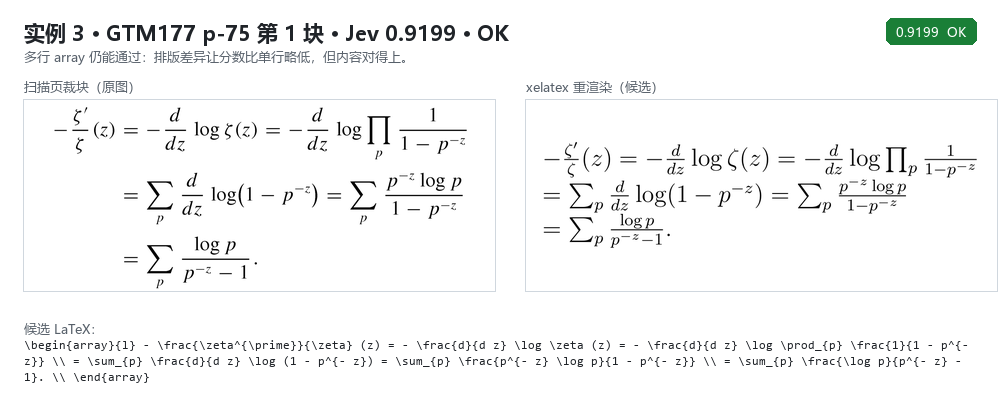
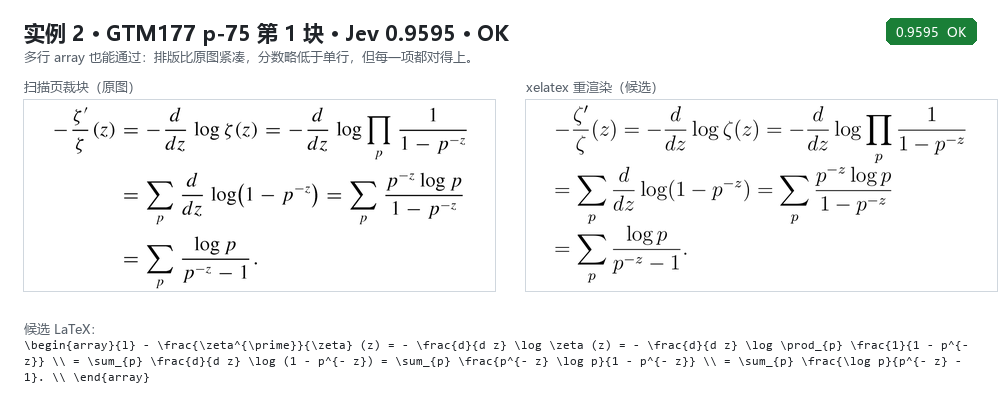
fix: force displaystyle in array cells so limits match the print
OCR 把多行公式写成 array 环境，array 单元格默认 textstyle：\\sum 的上下限会按上下标排到右下角、分式变小，与扫描页的 display 排版不一致，Jev 因此扣分。

模板加 \\everymath{\\displaystyle}：22 块真实样本均值 0.9470 -> 0.9676，5 块变好、3 块微降(<=0.0014)，一块误报 0.4275 -> 0.8304 消失。

顺带把实例换成 0.9900 OK / 0.9595 OK / 模板对照三张，并补一条单测。

diff --git a/pmocr/latex.py b/pmocr/latex.py
@@ -17,14 +17,18 @@ from typing import Callable
 from .config import Config
 from .errors import RenderError
 
+# \everymath{\displaystyle} 是必须的，不是审美选择：
+# OCR 把多行公式写成 \begin{array}{l}…\end{array}，而 array 单元格默认按 textstyle 排版，
+# 求和号上下限会跑到右下角、分式变小，和扫描页的 display 排版不一致，Jev 会因此扣分。
+# 22 块实测：均值 0.9470 → 0.9676，其中一块误报 0.4275 → 0.8304。
 TEMPLATE = (
     "\\documentclass[12pt,border=3pt]{standalone}\n"
     "\\usepackage{amsmath}\n"
+    "\\everymath{\\displaystyle}\n"
     "\\begin{document}\n"
     "$\\displaystyle %s$\n"
     "\\end{document}\n"
 )
-
 _LEADING_DELIMS = (re.compile(r"^\s*\\\["), re.compile(r"^\s*\$\$"))
 _TRAILING_DELIMS = (re.compile(r"\\\]\s*$"), re.compile(r"\$\$\s*$"))
 

diff --git a/tests/test_latex.py b/tests/test_latex.py
@@ -41,6 +41,11 @@ class StripTests(unittest.TestCase):
         self.assertIn("amsmath", doc)
         self.assertIn("$\\displaystyle x^2$", doc)
 
+    def test_document_forces_displaystyle_inside_cells(self) -> None:
+        # array 单元格默认 textstyle，会让 \sum 下限跑到右下角，与印刷版不符
+        doc = build_document("\\begin{array}{l}\\sum_p x\\end{array}")
+        self.assertIn("\\everymath{\\displaystyle}", doc)
+
 
 class RenderTests(unittest.TestCase):
     def setUp(self) -> None:

diff --git a/README.md b/README.md
@@ -69,18 +69,20 @@ python -m pmocr.experiment --csv .\work\qc\formula_qc.csv --md 报告.md
 
 ## 实例（真实产物，非示意）
 
-三张图都是 2026-11-20 在 GTM177 上跑出来的：左边是扫描页裁块，右边是 xelatex 重渲染，分数来自 Jev。
+三张图都是 2026-11-20 在 GTM177 上跑出来的：左边扫描页裁块、右边 xelatex 重渲染，分数来自 Jev。
 
 ![实例 1：高分正确](docs/img/example-ok.png)
 
-![实例 2：低分但人工核对正确](docs/img/example-check.png)
+![实例 2：多行 array](docs/img/example-array.png)
 
-![实例 3：多行 array 仍通过](docs/img/example-array.png)
+![求和号下限为什么跑到右下角](docs/img/example-style.png)
 
 - **实例 1（0.9900 OK）**：两边几乎逐字一致，这块不用人看。
-- **实例 2（0.4275 CHECK）**：**最值得看的一张**。低分不等于错——裁块里带了公式编号 `(4.`，候选没带，
-  分数被压低，人工核对其实是正确的。所以 `CHECK` 是「请你看一眼」，不是「这里有错」。
-- **实例 3（0.9199 OK）**：多行 array 也能过；排版差异让分数比单行略低，但内容对得上。
+- **实例 2（0.9595 OK）**：多行 `array` 也能过；排版比原图紧凑，分数略低于单行，但每项都对得上。
+- **第三张是反例，最值得看**：`array` 单元格默认 textstyle，求和号下限会按「上下标」排到右下角、分式变小，
+  与印刷版的 display 排版不一致，Jev 因此扣分——p-19 第 3 块甚至被误报成 `0.4275 CHECK`。
+  渲染模板加一行 `\everymath{\displaystyle}` 后同一块升到 `0.8304`。
+  22 块样本实测：均值 0.9470 → 0.9676，5 块变好、3 块微降（≤0.0014）、1 块误报消失。
 
 ## 模块
 
@@ -120,7 +122,7 @@ $env:PMOCR_THRESHOLD = '0.6'
 python -m unittest discover -s tests -t .
 ```
 
-120 个用例，默认不联网、不占 GPU、不依赖真 TeX（真编译用例需 `PMOCR_TEST_TEX=1`）。
+121 个用例，默认不联网、不占 GPU、不依赖真 TeX（真编译用例需 `PMOCR_TEST_TEX=1`）。
 覆盖：配置优先级与校验、bbox 换算、定界符清洗、渲染失败/超时/0 字节 PDF、Jev 重试与不重试、
 四类判定分流、报告分节、标签指标与阈值扫描、重复标签防护、PDF 渲染与成稿合并、入口退出码。
 
@@ -133,6 +135,8 @@ python -m unittest discover -s tests -t .
 - **编号**（如 `(4-x)`）会丢一部分，要编号只能人工补。
 - **表格**转成 HTML table，不是 Markdown 管道表。
 - **Jev 500** 是技术性失败不是识别错误，但失败率分书差异极大（0% ~ 40%），会直接影响人工成本。
+- **排版保真**：多行公式被 OCR 写成 `array`，单元格默认 textstyle；渲染端必须强制 `\everymath{\displaystyle}`，
+  否则求和号上下限位置、分式大小与印刷版不符，会把正确块压成低分（已修，见实例第三张）。
 - **阈值 0.6 未校准**：CHECK 率在四本书里从 0.9% 到 27%，要定阈值得先有标签。
 - **成稿不做自动修稿**：复核只给信号，改由人做。
 
@@ -155,3 +159,4 @@ tests/              单元测试
 ## License
 
 MIT
+

diff --git a/docs/架构.md b/docs/架构.md
@@ -20,7 +20,7 @@
 | `geometry.py` | `Size`、等比缩放、bbox 坐标系换算（纯计算） | 不开图、不写文件 |
 | `paths.py` | 发现页输入、准备输出目录、命名裁图 | 不解析 JSON、不做判定 |
 | `render.py` | PDF → 逐页 PNG（长边统一、断点续跑） | 不解析、不打分 |
-| `latex.py` | 去外层定界符、装配 standalone 文档、xelatex → PNG | 不裁图、不认识页、不打分 |
+| `latex.py` | 去外层定界符、装配 standalone 文档（强制 `\everymath{\displaystyle}`）、xelatex → PNG | 不裁图、不认识页、不打分 |
 | `jev.py` | HTTP 打分客户端、退避重试、5xx 重试 / 4xx 立刻失败 | 不渲染、不写报告 |
 | `ocr.py` | 解析块级 JSON，抽出公式块（label 过滤、编号、bbox 校验） | 不碰图像、不打分 |
 | `qc.py` | 编排：裁图 → 渲染 → 打分 → 四类判定；单块失败只记账 | 不写 CSV、不拼报告文本 |
